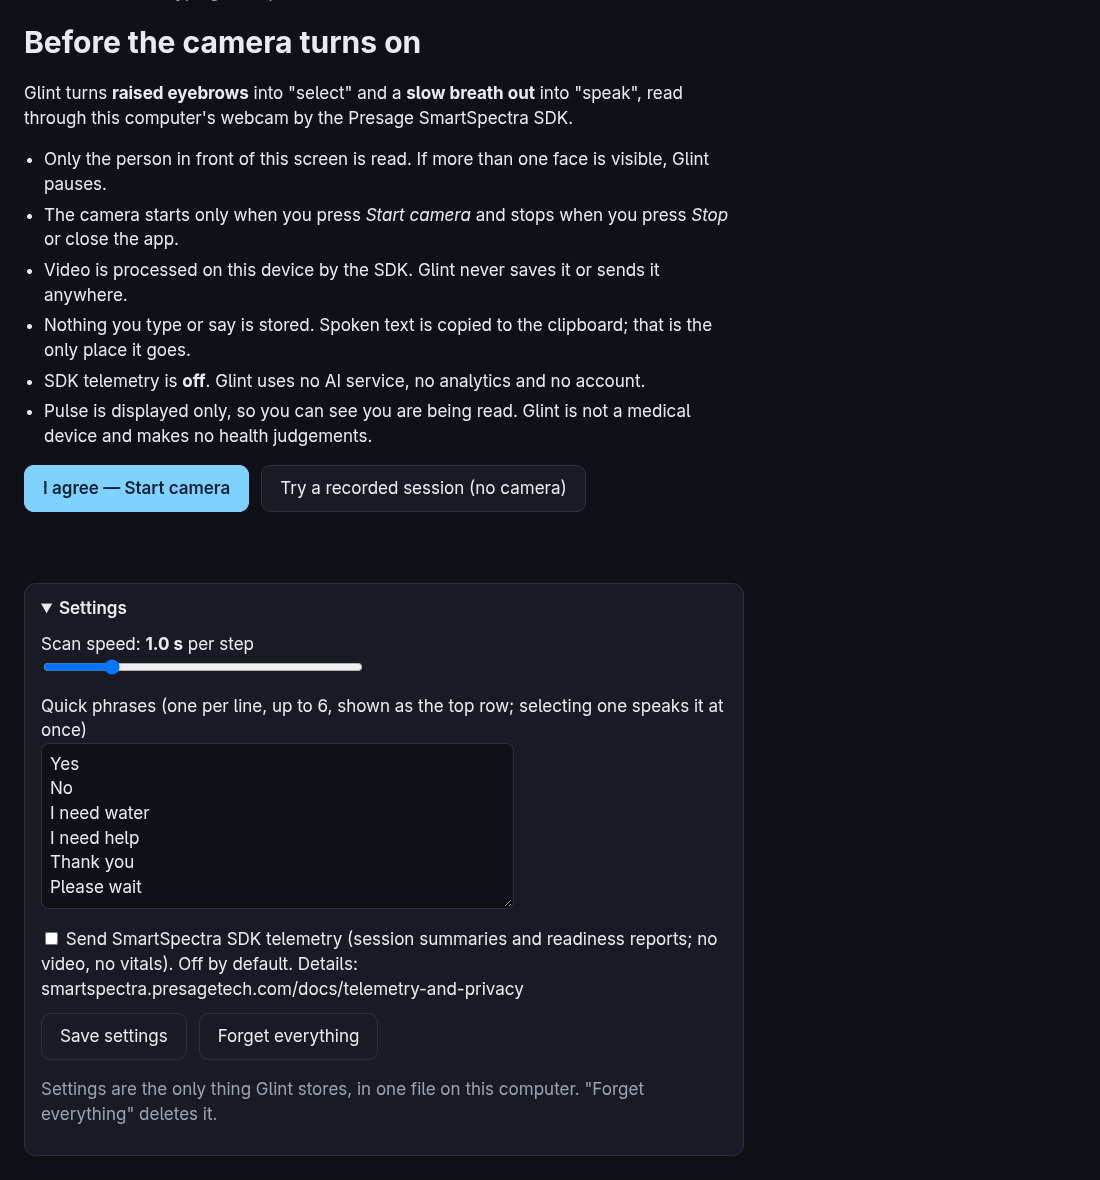
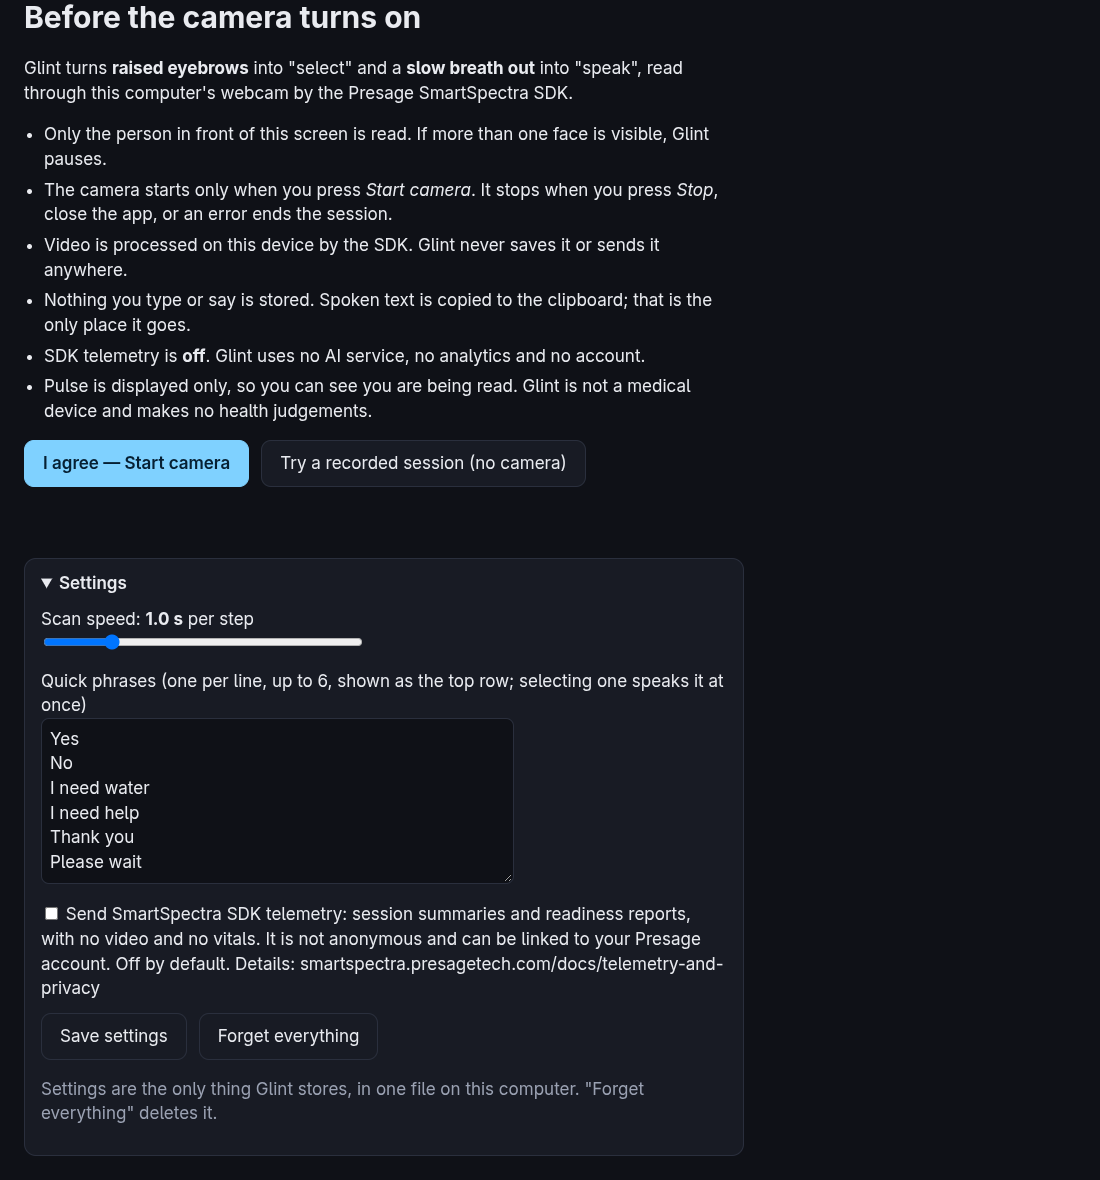
fix: release the camera when an SDK error ends the session; deploy docs to GitHub Pages
- a non-retryable SDK error or kError now stops the session and returns to
  the first screen; recoverable problems still only pause
- the telemetry setting says it is not anonymous, as Presage asks apps to disclose
- docs site is now a static export under /glint, built by docs.yml

Changed region(s): [[0.0, 0.0, 0.6491, 0.4576], [0.0309, 0.4881, 0.6491, 0.8542]]

diff --git a/src/renderer/index.html b/src/renderer/index.html
@@ -69,7 +69,7 @@
     <p>Glint turns <strong>raised eyebrows</strong> into "select" and a <strong>slow breath out</strong> into "speak", read through this computer's webcam by the Presage SmartSpectra SDK.</p>
     <ul>
       <li>Only the person in front of this screen is read. If more than one face is visible, Glint pauses.</li>
-      <li>The camera starts only when you press <em>Start camera</em> and stops when you press <em>Stop</em> or close the app.</li>
+      <li>The camera starts only when you press <em>Start camera</em>. It stops when you press <em>Stop</em>, close the app, or an error ends the session.</li>
       <li>Video is processed on this device by the SDK. Glint never saves it or sends it anywhere.</li>
       <li>Nothing you type or say is stored. Spoken text is copied to the clipboard; that is the only place it goes.</li>
       <li>SDK telemetry is <strong>off</strong>. Glint uses no AI service, no analytics and no account.</li>
@@ -87,7 +87,7 @@
         <input id="dwell" type="range" min="500" max="3000" step="100"></label>
       <label>Quick phrases (one per line, up to 6, shown as the top row; selecting one speaks it at once)<br>
         <textarea id="phrases" rows="6" cols="40"></textarea></label>
-      <label class="row"><input id="telemetry" type="checkbox"> Send SmartSpectra SDK telemetry (session summaries and readiness reports; no video, no vitals). Off by default. Details: smartspectra.presagetech.com/docs/telemetry-and-privacy</label>
+      <label class="row"><input id="telemetry" type="checkbox"> Send SmartSpectra SDK telemetry: session summaries and readiness reports, with no video and no vitals. It is not anonymous and can be linked to your Presage account. Off by default. Details: smartspectra.presagetech.com/docs/telemetry-and-privacy</label>
       <div class="row">
         <button id="settings-save">Save settings</button>
         <button id="settings-forget">Forget everything</button>

diff --git a/src/renderer/signals/presage.ts b/src/renderer/signals/presage.ts
@@ -1,6 +1,6 @@
 // Live source: SmartSpectra SDK on the webcam. The camera is opened here and nowhere else, and only
 // after the consent state (see app.ts). Video stays in memory; only decoded numbers leave this file.
-import { SmartSpectraSDK, ValidationCode, MetricType, breathingMetrics, faceMetrics } from '@smartspectra/node-sdk/renderer';
+import { SmartSpectraSDK, ValidationCode, ProcessingStatus, MetricType, breathingMetrics, faceMetrics } from '@smartspectra/node-sdk/renderer';
 import { decodeMetrics, Metrics } from '@smartspectra/node-sdk/messages';
 import { extract } from '../gestures/extract.ts';
 import type { SignalSource, SourceEvents } from './source.ts';
@@ -41,7 +41,10 @@ export function liveSource(apiKey: string, opts: { record?: boolean; telemetry?:
           requestedMetrics: [...breathingMetrics, MetricType.PULSE_RATE, ...faceMetrics],
         });
         sdk.on('validationStatus', (code, _ts, hint) => ev.validation(code === ValidationCode.kOk, nameOf(code), hint));
-        sdk.on('error', (code, msg) => ev.error(`SDK error ${code}: ${msg}`));
+        let lastError = 'The SDK stopped with an error.';
+        sdk.on('error', (code, msg, retryable) => { lastError = `SDK error ${code}: ${msg}`; ev.error(lastError, !retryable); });
+        // kError ends the session whatever the last error claimed; frames sent after it are only dropped.
+        sdk.on('processingStatus', (status) => { if (status === ProcessingStatus.kError) ev.error(lastError, true); });
         sdk.on('metrics', (buf) => {
           const m = Metrics.toObject(decodeMetrics(buf), { longs: Number, defaults: false });
           if (opts.record) window.glint.frame(JSON.stringify({ m }));

diff --git a/site/lib/shared.ts b/site/lib/shared.ts
@@ -1,6 +1,9 @@
 import { createGetUrl } from 'fumadocs-core/source';
 
 export const appName = 'Glint';
+/** '/glint' on GitHub Pages. Next adds it to links, but not to raw paths like <img src> or fetch(). */
+export const basePath = process.env.NEXT_PUBLIC_BASE_PATH ?? '';
+export const withBase = (text: string) => text.replaceAll('](/docs', `](${basePath}/docs`);
 export const docsRoute = '/docs';
 export const docsImageRoute = '/og/docs';
 export const docsContentRoute = '/llms.mdx/docs';
@@ -21,7 +24,7 @@ const getContentUrl = createGetUrl(docsContentRoute);
 export function getPageMarkdownUrl(page: { slugs: string[]; locale?: string }) {
   const segments = [...page.slugs, 'content.md'];
 
-  return { segments, url: getContentUrl(segments, page.locale) };
+  return { segments, url: basePath + getContentUrl(segments, page.locale) };
 }
 
 const getImageUrl = createGetUrl(docsImageRoute);
@@ -29,5 +32,5 @@ const getImageUrl = createGetUrl(docsImageRoute);
 export function getPageImageUrl(page: { slugs: string[]; locale?: string }) {
   const segments = [...page.slugs, 'image.png'];
 
-  return { segments, url: getImageUrl(segments, page.locale) };
+  return { segments, url: basePath + getImageUrl(segments, page.locale) };
 }

diff --git a/site/app/layout.tsx b/site/app/layout.tsx
@@ -1,4 +1,5 @@
-import { RootProvider } from 'fumadocs-ui/provider/next';
+import { Provider } from '@/components/provider';
+import { basePath } from '@/lib/shared';
 import './global.css';
 import { DM_Sans, Geist_Mono, Inter, Newsreader } from 'next/font/google';
 import type { Metadata } from 'next';
@@ -11,14 +12,15 @@ const newsreader = Newsreader({ subsets: ['latin'], style: 'italic', variable: '
 export const metadata: Metadata = {
   title: { default: 'Glint Docs', template: '%s | Glint Docs' },
   description: 'Documentation for Glint: type and speak with your eyebrows and your breath, through a webcam.',
-  icons: { icon: '/icon.svg' },
+  icons: { icon: `${basePath}/icon.svg` },
+  metadataBase: new URL('https://yashksaini-coder.github.io'),
 };
 
 export default function Layout({ children }: LayoutProps<'/'>) {
   return (
     <html lang="en" className={`${inter.variable} ${dmSans.variable} ${geistMono.variable} ${newsreader.variable}`} suppressHydrationWarning>
       <body className="flex min-h-screen flex-col">
-        <RootProvider theme={{ defaultTheme: 'dark' }}>{children}</RootProvider>
+        <Provider>{children}</Provider>
       </body>
     </html>
   );

diff --git a/site/app/(home)/page.tsx b/site/app/(home)/page.tsx
@@ -3,7 +3,7 @@ import { ArrowRight, ArrowUpRight } from 'lucide-react';
 import { TopCells } from '@/components/docs/topbar';
 import { BoardScene } from '@/components/home/board-scene';
 import { StartTabs } from '@/components/home/start-tabs';
-import { links } from '@/lib/shared';
+import { basePath, links } from '@/lib/shared';
 
 const features = [
   { t: 'Eyebrow select.', d: 'Raise your eyebrows when the item you want is lit. Relax, and go again.', chips: ['landmarks', 'baseline', 'hold'], href: '/docs/concepts/eyebrow-detector' },
@@ -24,7 +24,7 @@ export default function Landing() {
         <div className="g-hero-bg absolute inset-0" aria-hidden />
         <header className="relative flex h-11 shrink-0 items-center gap-2.5 border-b px-4">
           {/* eslint-disable-next-line @next/next/no-img-element */}
-          <img src="/icon.svg" alt="" width={20} height={20} />
+          <img src={`${basePath}/icon.svg`} alt="" width={20} height={20} />
           <span className="g-caps text-fd-foreground">Glint</span>
         </header>
         <div className="relative min-h-0 flex-1 px-4 py-3 max-lg:h-96 max-lg:flex-none">

diff --git a/site/components/search.tsx b/site/components/search.tsx
@@ -1,0 +1,37 @@
+'use client';
+import {
+  SearchDialog,
+  SearchDialogClose,
+  SearchDialogContent,
+  SearchDialogHeader,
+  SearchDialogIcon,
+  SearchDialogInput,
+  SearchDialogList,
+  SearchDialogOverlay,
+  type SharedProps,
+} from 'fumadocs-ui/components/dialog/search';
+import { useStaticSearch } from 'fumadocs-core/search/client';
+import { useI18n } from 'fumadocs-ui/contexts/i18n';
+import { basePath } from '@/lib/shared';
+
+export default function DefaultSearchDialog(props: SharedProps) {
+  const { locale } = useI18n(); // (optional) for i18n
+  const search = useStaticSearch({
+    locale,
+    from: `${basePath}/api/search`,
+  });
+
+  return (
+    <SearchDialog {...search} {...props}>
+      <SearchDialogOverlay />
+      <SearchDialogContent>
+        <SearchDialogHeader>
+          <SearchDialogIcon />
+          <SearchDialogInput />
+          <SearchDialogClose />
+        </SearchDialogHeader>
+        <SearchDialogList />
+      </SearchDialogContent>
+    </SearchDialog>
+  );
+}

diff --git a/tools/cdp.ts b/tools/cdp.ts
@@ -9,7 +9,8 @@ export const sleep = (ms: number) => new Promise((r) => setTimeout(r, ms));
 export async function launch(port = 9333) {
   // GLINT_BIN=out/linux-unpacked/glint runs the same checks against a packaged build.
   const [cmd, args] = process.env.GLINT_BIN ? [process.env.GLINT_BIN, []] : ['npx', ['electron', '.']];
-  const proc = spawn(cmd, [...args, `--remote-debugging-port=${port}`], { stdio: 'ignore', detached: true });
+  const extra = process.env.GLINT_ARGS?.split(' ') ?? []; // e.g. Chromium's fake-camera flags
+  const proc = spawn(cmd, [...args, ...extra, `--remote-debugging-port=${port}`], { stdio: 'ignore', detached: true });
   let target: { webSocketDebuggerUrl: string } | undefined;
   for (let i = 0; i < 40 && !target; i++) {
     await sleep(500);

diff --git a/site/lib/layout.shared.tsx b/site/lib/layout.shared.tsx
@@ -1,5 +1,5 @@
 import type { BaseLayoutProps } from 'fumadocs-ui/layouts/shared';
-import { appName, links } from './shared';
+import { appName, basePath, links } from './shared';
 
 export function baseOptions(): BaseLayoutProps {
   return {
@@ -8,7 +8,7 @@ export function baseOptions(): BaseLayoutProps {
       title: (
         <>
           {/* eslint-disable-next-line @next/next/no-img-element */}
-          <img src="/icon.svg" alt="" width={22} height={22} />
+          <img src={`${basePath}/icon.svg`} alt="" width={22} height={22} />
           <span className="font-heading font-semibold">{appName}</span>
           <span className="g-tag">Docs</span>
         </>

diff --git a/src/renderer/app.ts b/src/renderer/app.ts
@@ -58,7 +58,10 @@ async function start(kind: 'live' | 'replay') {
     await source.start({
       sample: onSample,
       validation: onValidation,
-      error: (msg) => { $('setup-hint').textContent = msg; showPaused(msg); },
+      error: (msg, fatal) => {
+        if (fatal) { void stop().then(() => { $('consent-error').textContent = msg; }); return; } // fail closed: the camera goes off
+        $('setup-hint').textContent = msg; showPaused(msg);
+      },
       stream: (s) => { $<HTMLVideoElement>('setup-video').srcObject = s; $<HTMLVideoElement>('board-video').srcObject = s; },
     });
     $('board-video').hidden = kind !== 'live';

diff --git a/src/renderer/signals/source.ts b/src/renderer/signals/source.ts
@@ -4,7 +4,8 @@ export type SourceEvents = {
   sample(s: Sample): void;
   /** ok = SDK validation is OK; hint is the SDK's own text, shown verbatim. */
   validation(ok: boolean, code: string, hint: string): void;
-  error(message: string): void;
+  /** fatal = the session is over and the camera must be released; otherwise the app only pauses. */
+  error(message: string, fatal: boolean): void;
   /** Live camera preview (live source only). */
   stream?(s: MediaStream): void;
 };

diff --git a/site/components/provider.tsx b/site/components/provider.tsx
@@ -1,0 +1,8 @@
+'use client';
+import { RootProvider } from 'fumadocs-ui/provider/next';
+import type { ReactNode } from 'react';
+import SearchDialog from '@/components/search';
+
+export function Provider({ children }: { children: ReactNode }) {
+  return <RootProvider theme={{ defaultTheme: 'dark' }} search={{ SearchDialog }}>{children}</RootProvider>;
+}

diff --git a/site/app/api/search/route.ts b/site/app/api/search/route.ts
@@ -1,4 +1,6 @@
 import { source } from '@/lib/source';
 import { createFromSource } from 'fumadocs-core/search/server';
 
-export const { GET } = createFromSource(source);
+export const revalidate = false;
+
+export const { staticGET: GET } = createFromSource(source, { language: 'english' });
